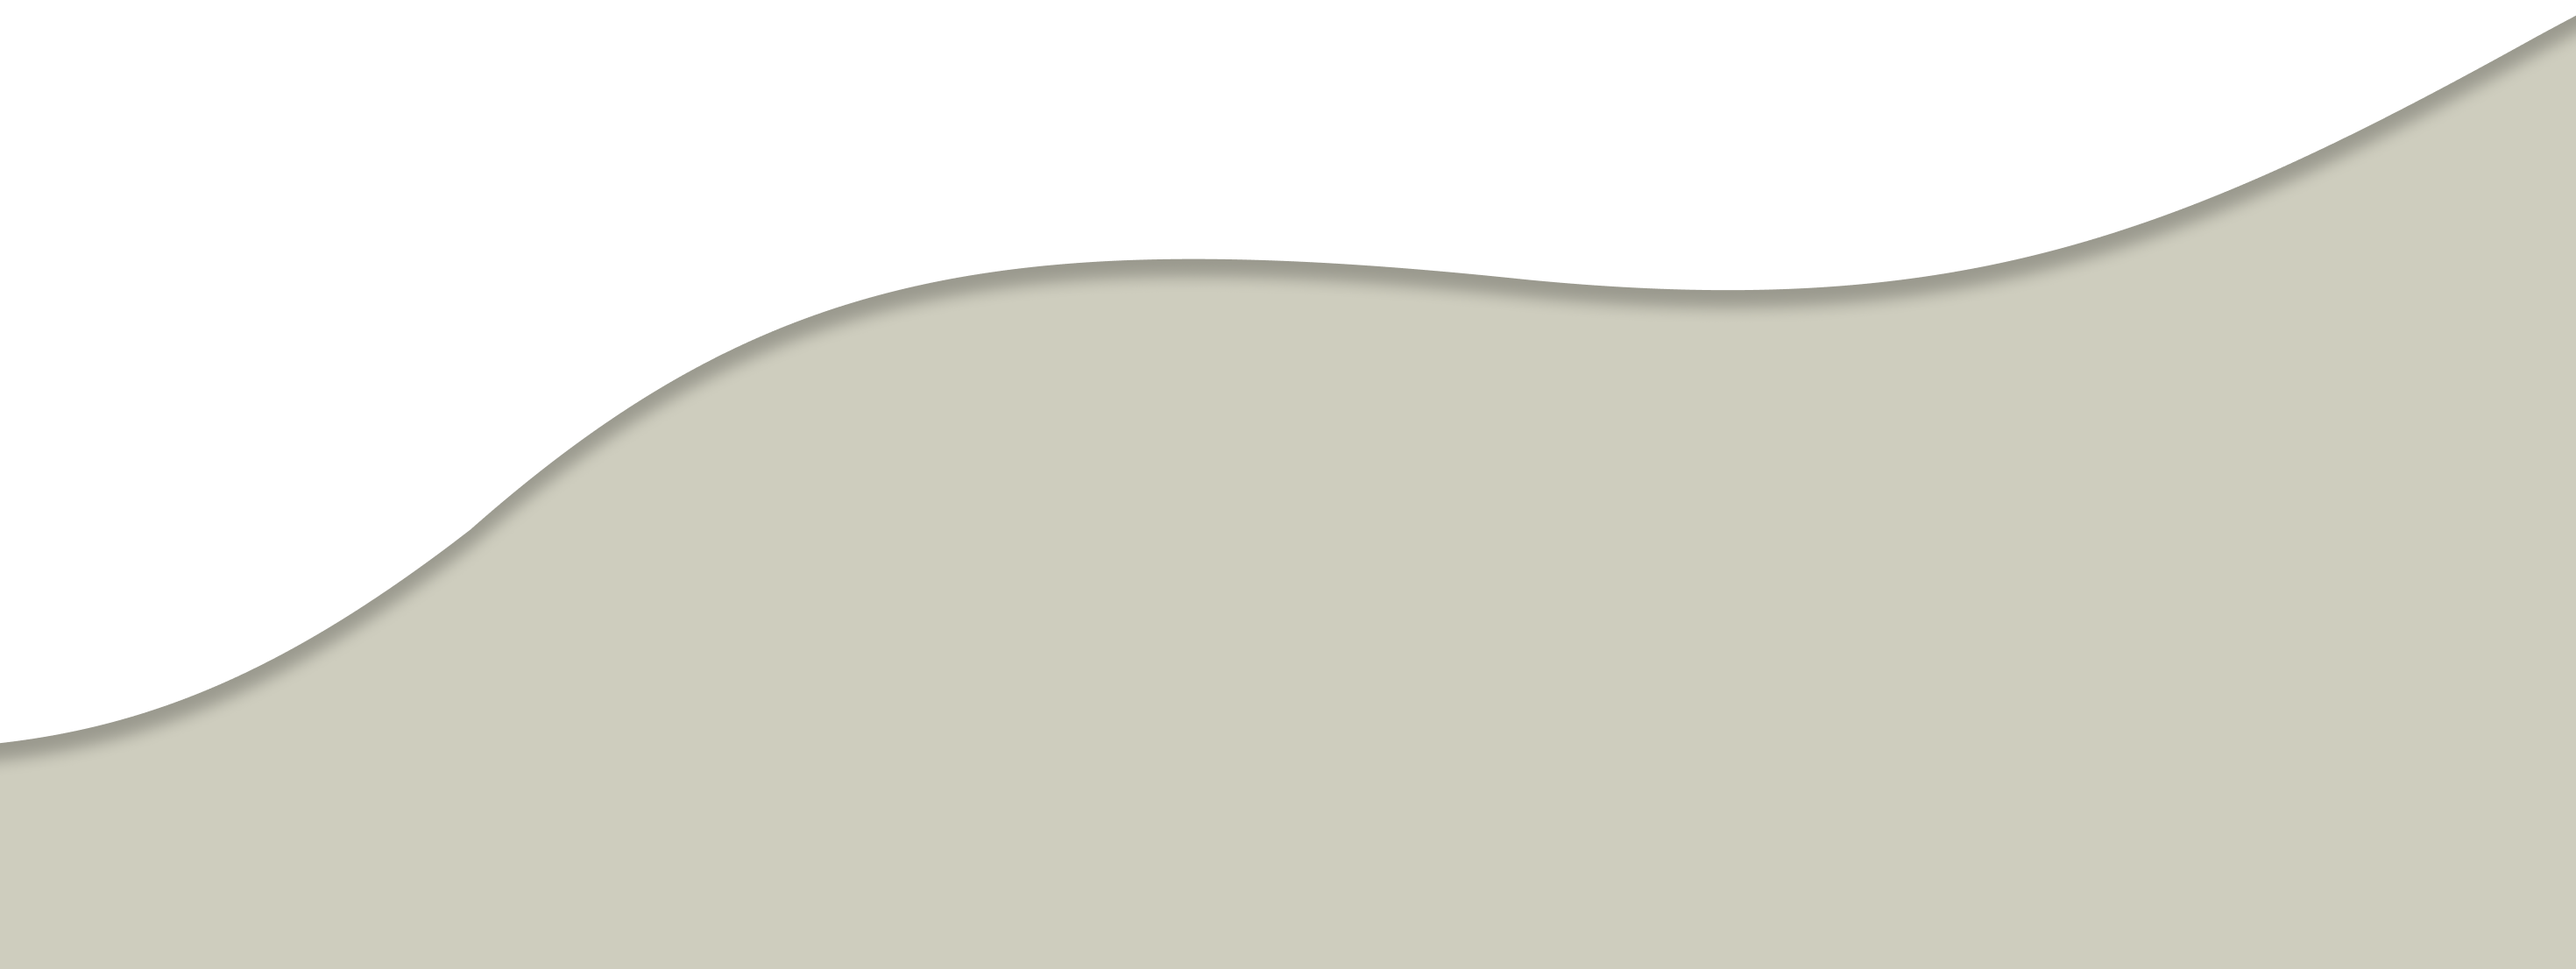
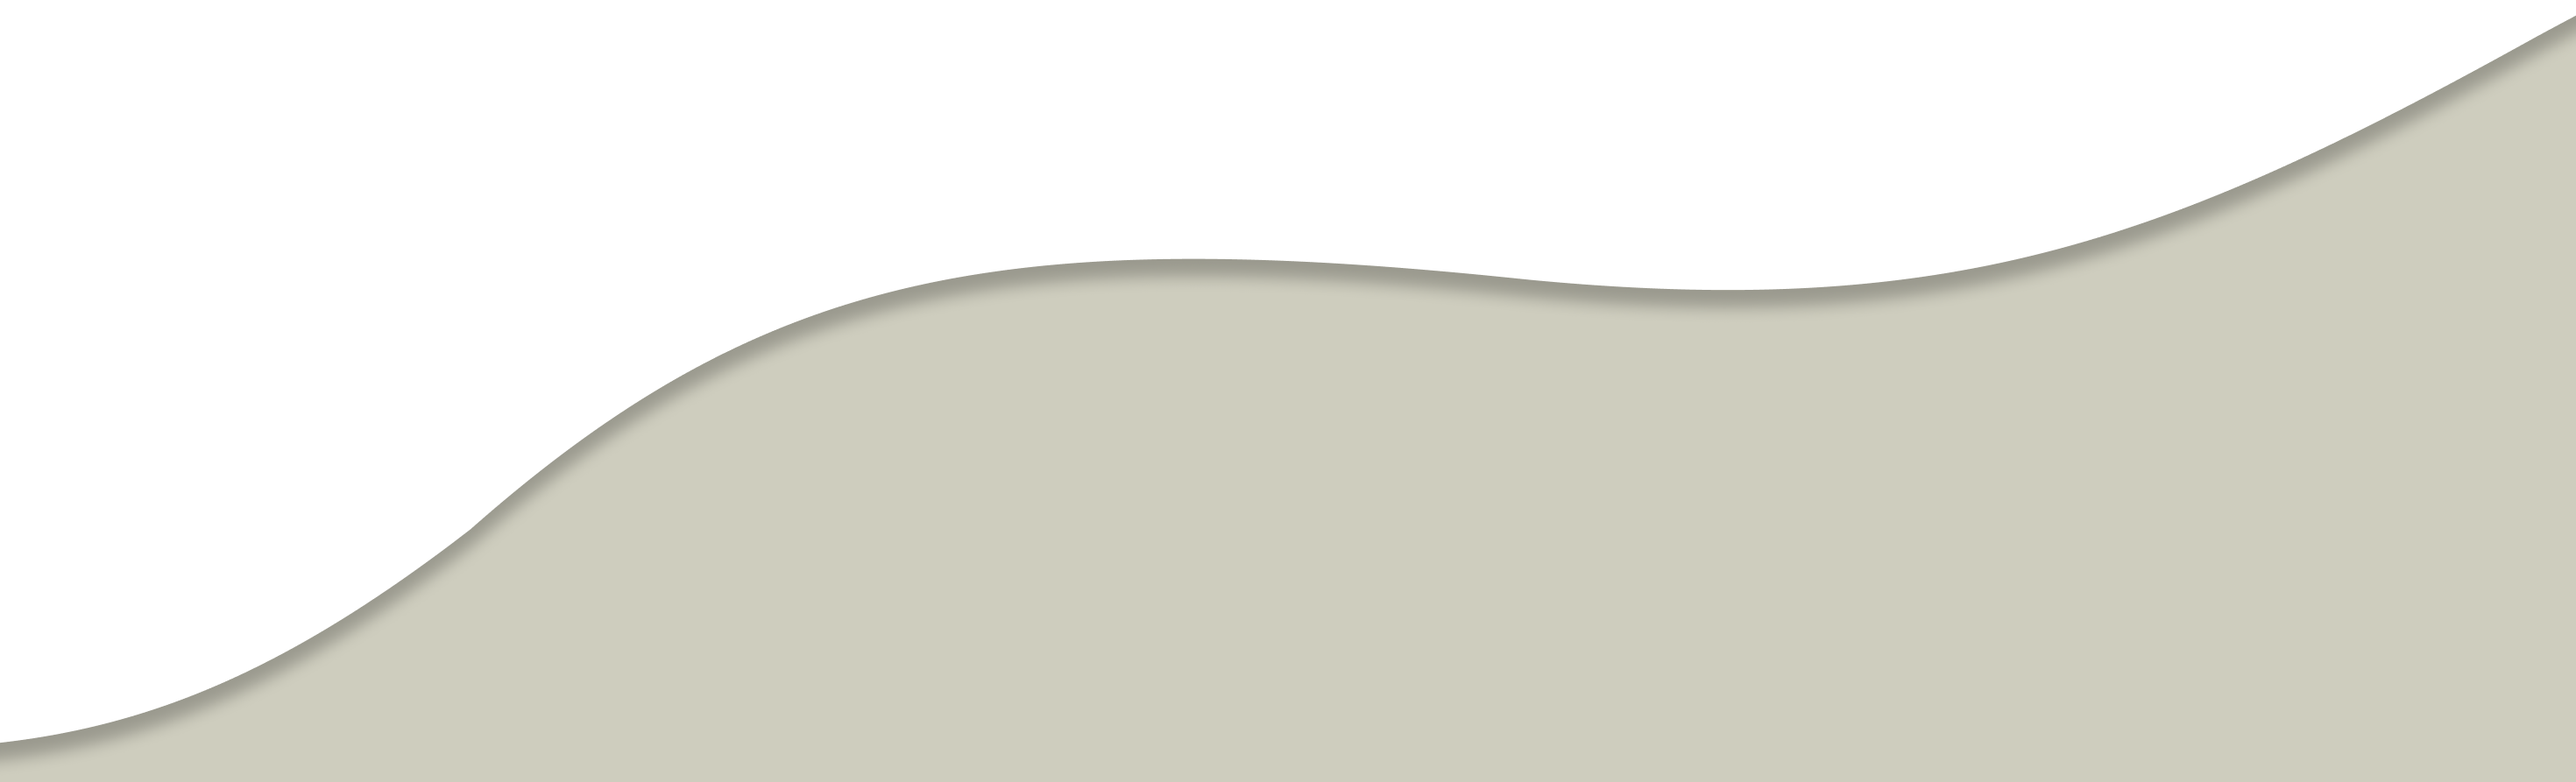
rettet navwaves på tablet på index, borger aktviteter og borger forside. samt startet skalering af borger aktiviteter

Changed region(s): [[0.0, 0.0302, 0.9905, 0.9675], [0.9905, 0.0, 1.0, 0.0302]]

diff --git a/borger-aktiviteter.php b/borger-aktiviteter.php
@@ -23,19 +23,55 @@
 <?php include 'includes/navbar.php'; ?>
 
 <!--top-wave-->
-<div aria-hidden="true">
+<div aria-hidden="true" class="d-md-none">
     <img src="waves-phone/navwave.png" class="waves position-relative w-100" alt="">
 </div>
 
-<!--top-info-->
-<div class="container-fluid bg-sage-green ps-4 ps-md-5 pb-md-2 borger-forside-header">
+<!--top-wave md-->
+<div aria-hidden="true" class="d-none d-md-block">
+    <img src="waves-tablet/nav-wave.png" class="waves position-relative w-100" alt="">
+</div>
 
-    <div class="row">
+<div class="container-fluid d-none d-md-block p-0 position-relative" style="z-index: -1000">
+    <img src="images/header-image-tablet.jpg" alt="header-image" class="img-fluid header-image-borger">
+</div>
+
+<!--green normal wave-->
+<div aria-hidden="true" class="d-none d-md-block green-wavywave-frontpage" style="margin-top: -275px">
+    <img src="waves-tablet/green-big-wave.png" class="waves img-fluid  p-0 m-0" alt="">
+</div>
+
+<!--wave shape-->
+<div aria-hidden="true" class="text-end d-none d-md-block decoration-frontpage" style="margin-top: -210px">
+    <img src="header-shapes/green-heart.png" class="decoration-frontpage-image  pe-4 m-0" alt="" style="width: 180px">
+</div>
+
+<!--top-info-->
+<div class="container-fluid d-md-none d-flex justify-content-center align-items-center bg-sage-green ps-4 ps-md-5 pb-md-2 borger-forside-header">
+
+    <div class="row d-flex justify-content-center align-items-center">
         <div class="col-12 mt-5">
-            <h1 class="cormorant pe-4 pt-3 fw-bold header-text-cormorant text-center">Aktiviteter</h1>
+            <h1 class="cormorant  pt-3 fw-bold header-text-cormorant text-center">Aktiviteter</h1>
         </div>
         <div class="col-12">
-            <div class="font-twelve inter pe-4 pe-md-5 me-md-5 text-center">Som beboer på Vedelsbo forventes der
+            <div class="font-twelve inter  pe-md-5 me-md-5 text-center">Som beboer på Vedelsbo forventes der
+                at du deltager i hverdagens fælles opgaver i det omfang, du kan. Vi tilpasser sammen omfanget af din
+                deltagelse, til dit funktionsniveau og ud fra dine individuelle behov.
+            </div>
+        </div>
+
+    </div>
+</div>
+
+<!--top-info md-->
+<div class="container-fluid d-none d-md-flex justify-content-center align-items-center bg-sage-green ps-4 pt-md-0 ps-md-0 pb-md-2 borger-forside-header" style="margin-top: 110px" >
+
+    <div class="row d-md-flex justify-content-center align-items-center">
+        <div class="col-10 mt-0">
+            <h1 class="cormorant  fw-bold header-text-cormorant text-center">Aktiviteter</h1>
+        </div>
+        <div class="col-10 mb-3">
+            <div class="font-twelve font-sixteen px-5 inter  text-center">Som beboer på Vedelsbo forventes der
                 at du deltager i hverdagens fælles opgaver i det omfang, du kan. Vi tilpasser sammen omfanget af din
                 deltagelse, til dit funktionsniveau og ud fra dine individuelle behov.
             </div>
@@ -50,14 +86,12 @@
 </div>
 
 <!--top image-->
-<div class="container-fluid p-0 position-relative" style="z-index: -1000">
+<div class="container-fluid p-0 position-relative d-md-none" style="z-index: -1000">
     <img src="images/header-image.jpg" alt="header-image" class="img-fluid header-image-borger d-md-none">
-    <img src="images/header-image-tablet.jpg" alt="header-image"
-         class="img-fluid header-image-borger d-none d-md-block">
 </div>
 
 <!--beige big wave-->
-<div aria-hidden="true" class="beige-big-wave-borger-forside">
+<div aria-hidden="true" class="beige-big-wave-borger-forside d-md-none">
     <img src="waves-phone/beige-big-wave.png" class="waves img-fluid  p-0 m-0" alt="">
 </div>
 

diff --git a/index.php b/index.php
@@ -31,8 +31,13 @@ require "settings/init.php";
 <?php include 'includes/navbar.php'; ?>
 
 <!--top-wave-->
-<div aria-hidden="true">
+<div aria-hidden="true" class="d-md-none">
     <img src="waves-phone/navwave.png" class="waves position-relative w-100" alt="">
+</div>
+
+<!--top-wave md-->
+<div aria-hidden="true" class="d-none d-md-block">
+    <img src="waves-tablet/nav-wave.png" class="waves position-relative w-100" alt="">
 </div>
 
 <!--top-image-->

diff --git a/borger-forside.php b/borger-forside.php
@@ -23,8 +23,13 @@
 <?php include 'includes/navbar.php'; ?>
 
 <!--top-wave-->
-<div aria-hidden="true">
+<div aria-hidden="true" class="d-md-none">
     <img src="waves-phone/navwave.png" class="waves position-relative w-100" alt="">
+</div>
+
+<!--top-wave md-->
+<div aria-hidden="true" class="d-none d-md-block">
+    <img src="waves-tablet/nav-wave.png" class="waves position-relative w-100" alt="">
 </div>
 
 <!--top-info-->
